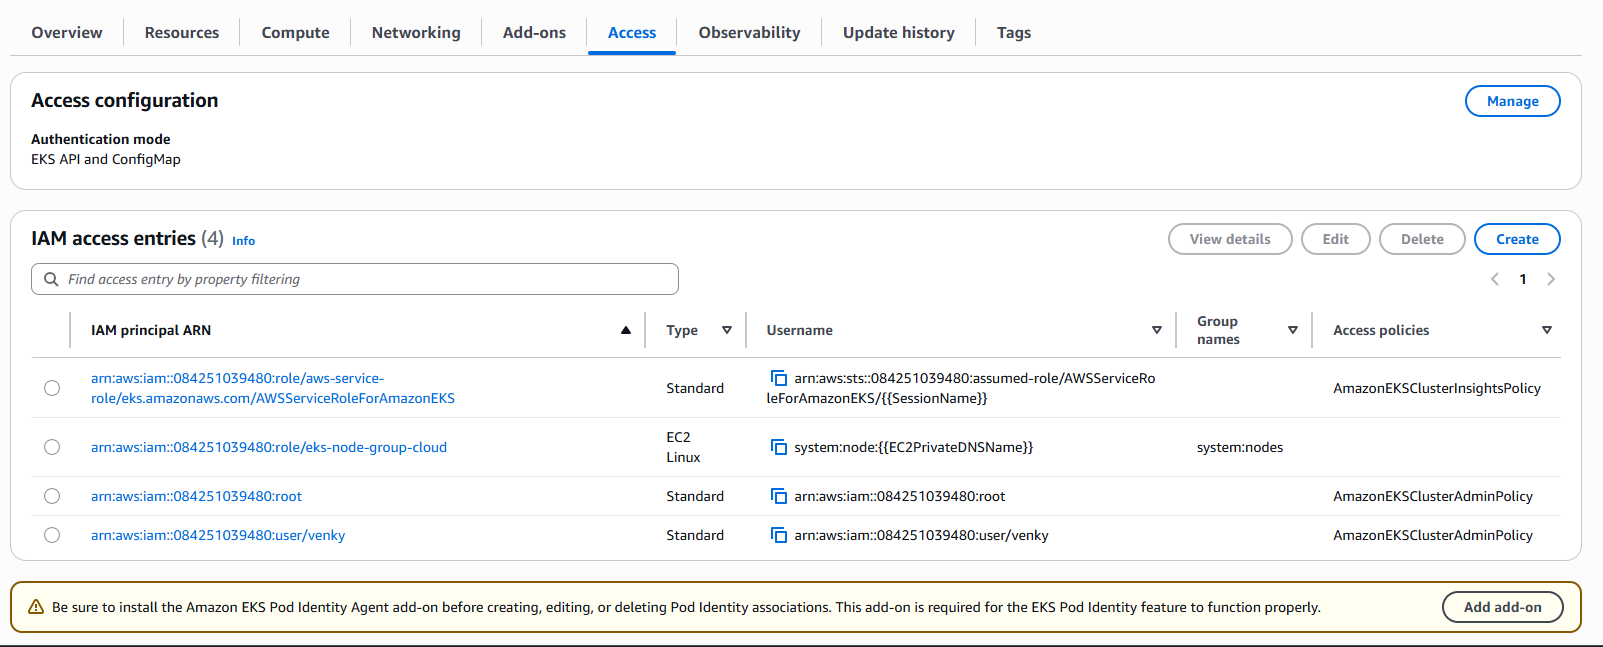
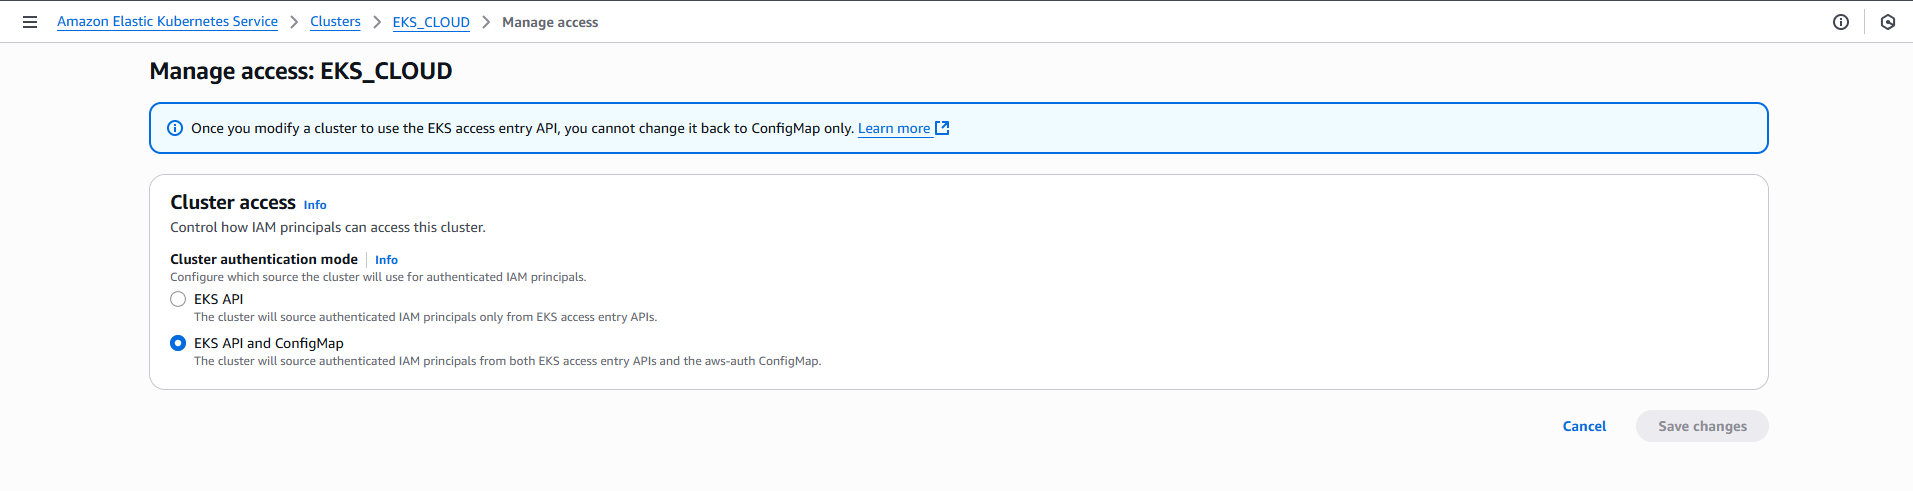
updated

diff --git a/EKS-Cluster-Creation/Approach-1/README.md b/EKS-Cluster-Creation/Approach-1/README.md
@@ -14,7 +14,7 @@ if Authentication mode shows EKS API only try to chnage it to EKS API and config
 
 ![AWS S3 Screenshot](images/Manage-access-1.png)
 ![AWS S3 Screenshot](images/Manage-access-2.png)
-![AWS S3 Screenshot](images/Manage-access-2.png)
+![AWS S3 Screenshot](images/Manage-access-3.png)
 
 ## Step-3:
 
@@ -45,7 +45,7 @@ kubectl get nodes
 ```
 
 
-## Thank you For Having Great Learning
+## Thank you for the great learning experience.
 
 
 
